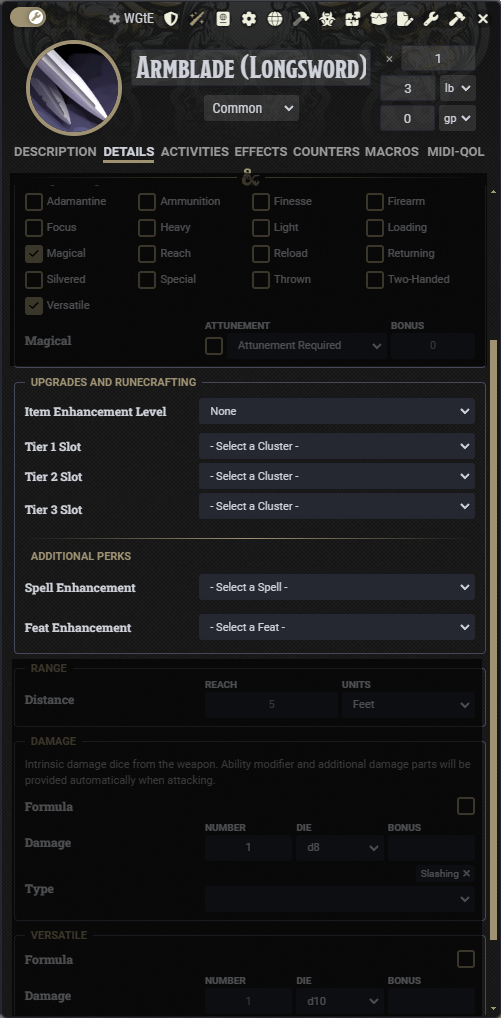
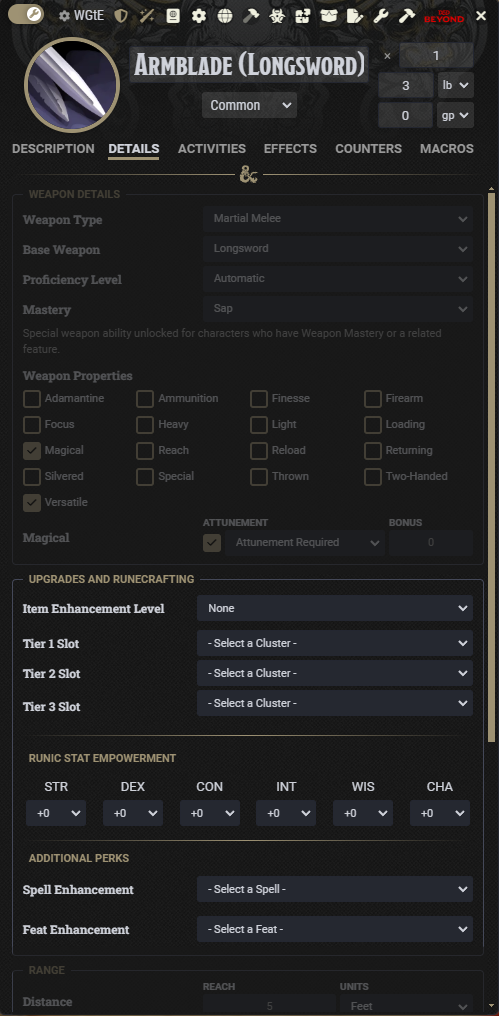
Update to include state boons with regulated logic. Added base localization for fields/options, and updated readme with new fields/image.

diff --git a/scripts/upgradable-main.js b/scripts/upgradable-main.js
@@ -340,11 +340,9 @@ async function evaluateUpgradableItem(item) {
             await addItemToActor(actor, compRef, item);
 
         } else if (rangedCluster3 !== "3" || !meetsRequirements) {
-            console.log("In Sharpshooter Remove");
             const sharpshooterEntry = await findCompendiumItemByIdentifier("sharpshooter");
             if (sharpshooterEntry) {
-                console.log("In Sharpshooter Remove 2");
-                console.log(sharpshooterEntry);
+                //console.log(sharpshooterEntry);
                 await removeItemFromActor(actor, sharpshooterEntry.id, item);
             }
         }
@@ -472,11 +470,6 @@ async function applyMeleeEnhancements(actor, item, upgrades) {
     const roll = new Roll(`${damageDie}`);
     await roll.evaluate({ async: true });
 
-    //await roll.toMessage({
-    //    speaker: ChatMessage.getSpeaker({ actor }),
-    //    flavor: `${item.name} unleashes ${roll.total} ${damageType} damage from its Cluster I rune.`,
-    //    rollMode: game.settings.get("core", "rollMode")
-    //});
     await roll.toMessage({
         speaker: ChatMessage.getSpeaker({ actor }),
         flavor: `${item.name} unleashes ${roll.total} ${damageType} damage from its Cluster I rune.`,
@@ -639,20 +632,6 @@ async function updateRunicEmpowermentEffect(item) {
     await actor.createEmbeddedDocuments("ActiveEffect", [effectData]);
 }
 
-//async function removeItemFromActor(actor, compRef, sourceItem) {
-//    const parts = compRef.split(".");
-//    const packId = parts.slice(0, -1).join(".");
-//    const entryId = parts.at(-1);
-
-//    const toRemove = actor.items.filter(i =>
-//        i.flags?.["upgradable-items"]?.sourceId === sourceItem.id &&
-//        i.flags?.["upgradable-items"]?.entryId === entryId
-//    );
-//    if (toRemove.length) {
-//        await actor.deleteEmbeddedDocuments("Item", toRemove.map(i => i.id));
-//    }
-//}
-
 // Hooks //
 Hooks.once("init", () => {
     loadTemplates(["modules/upgradable-items/templates/upitab-template.hbs"]);
@@ -680,8 +659,6 @@ Hooks.on("preUpdateItem", async (item, changes) => {
 
     const unequipped = wasEquipped && willBeEquipped === false;
     const unattuned = attunementRequired && wasAttuned && willBeAttuned === false;
-    //const cluster2Changed = itemFlags.cluster2 === "2" && changes.flags?.["upgradable-items"]?.cluster2 !== "2";
-    //const cluster3Changed = itemFlags.cluster3 === "3" && changes.flags?.["upgradable-items"]?.cluster3 !== "3";
     const oldCluster2 = item.getFlag("upgradable-items", "cluster2");
     const newCluster2 = changes.flags?.["upgradable-items"]?.cluster2;
     const cluster2Changed = oldCluster2 && oldCluster2 !== newCluster2;
@@ -717,8 +694,6 @@ Hooks.on("dnd5e.preApplyDamage", async (actor, damageData) => {
     const flags = armor.flags["upgradable-items"] ?? {};
     const { cluster1 = "0", enhanceLvl = "1" } = flags;
     const enhancementDie = getDieFormula(enhanceLvl);
-    //const hp = actor.system.attributes.hp.value;
-    //const maxHP = actor.system.attributes.hp.max;
 
     if (cluster1 === "1" && damageData.attackType === "melee" && isRuneReady(actor, "rune-reflected")) {
         await actor.setFlag("upgradable-items", "rune-reflected", true);
@@ -726,18 +701,6 @@ Hooks.on("dnd5e.preApplyDamage", async (actor, damageData) => {
         await damageData.source?.applyDamage?.(roll.total);
         ChatMessage.create({ speaker: { actor }, content: `Attacker was shocked for ${roll.total} lightning damage!` });
     }
-
-    //if (cluster1 === "3" && hp < maxHP / 2) {
-    //    const roll = await new Roll(enhancementDie).roll({ async: true });
-    //    await actor.applyDamage(-roll.total);
-    //    ChatMessage.create({ speaker: { actor }, content: `Rune armor pulsed, restored ${roll.total} HP!` });
-    //}
-
-    //if (cluster1 === "3" && hp <= 10 && damageData.attackType === "ranged") {
-    //    const attacker = damageData.source;
-    //    await attacker.setFlag("upgradable-items", "imposeDisadvantage", true);
-    //    ChatMessage.create({ speaker: { actor }, content: `Rune aura flared, ranged attacker suffers disadvantage.` });
-    //}
 
     // Cluster I Ranged Weapon: Apply disadvantage to target
     if (isRangedWeapon(damageData.item) && damageData.item.flags?.["upgradable-items"]?.cluster1 === "1") {

diff --git a/README.md b/README.md
@@ -1,3 +1,4 @@
+<a href="https://gitlocalize.com/repo/10450?utm_source=badge"> <img src="https://gitlocalize.com/repo/10450/whole_project/badge.svg" /> </a>
 # Upgradable Item Slots
 A Dnd5e **(Still WIP)** module for the Foundry VTT system that is an attempt at streamlining the item upgrade process for your players and the yourself as the DM/GM. What this offers is a way to take an item, modify "slots" and give items perks and features rather than always having to create and item and manually adjust things which take time. The ideal is inspired by dwarven runes being slotted into items and those runes giving perks, boons, and banes accordingly.
 
@@ -101,6 +102,9 @@ Must be forged in matching terrain. Usable once per long rest.
 | Melee Weapon | Create phantom illusion that gives advantage to the next attack |
 | Armor | At 50% HP or lower, gain resistance to all damage until the end of next round. Hostile creatures within 10ft make DC15 Wis or become frightened |
 | Ranged Weapon | Gain the Sharpshooter feat |
+
+## Runic Stat Empowerment
+Runic Stat Empowerment is meant to give boons to an actor and stack up to a maximum of 30 in said stat. These fields add a value to your base stat up to 10 per item. Multiple items with said bonus stack up to 30 and will downgrade according to the value reaching 30. Example being: If base STR stat is 27 and the user selects +10, the item's bonus STR enhancement will downgrade to +3 automatically.
 
 ## Additional Perks
 Spell Enhancement and Feat Enhancment both read from the existing compendiums and list all the items you have access to. Once selected, the Spell or Feat/Feature will be added to the actor. Selecting a different Spell/Feat/Feature or defaulting back to the "Select a X" option will remove it. As mentioned before, these also only apply if the item is equipped and/or if attunement is gained for the item (if attunement is required). Unequipping will remove any added perks and equipping should re-add them. 
